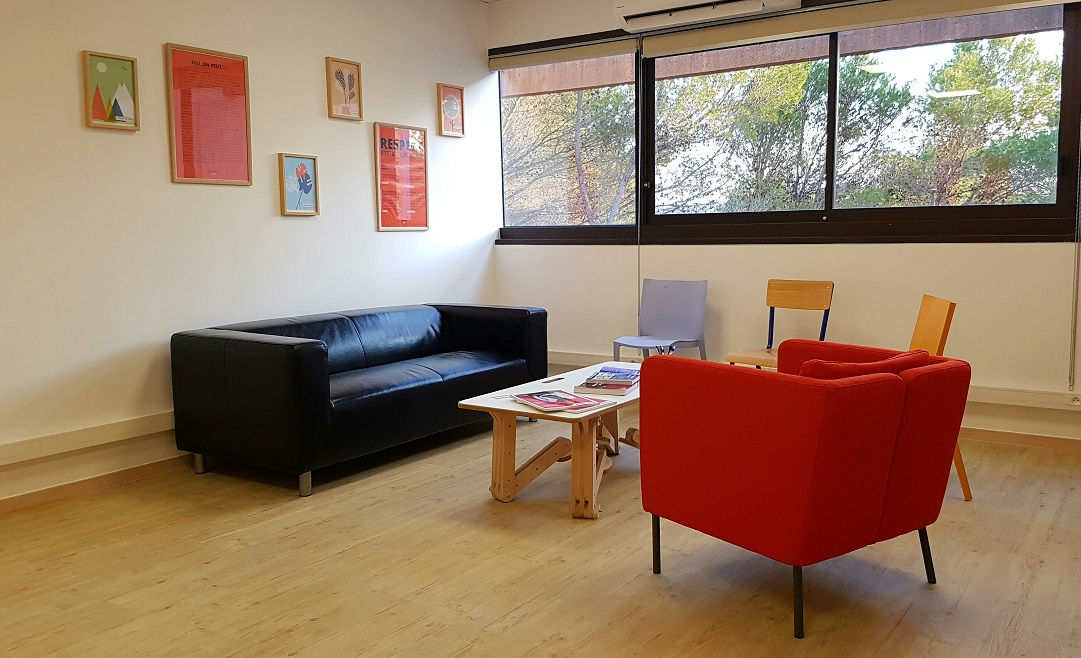
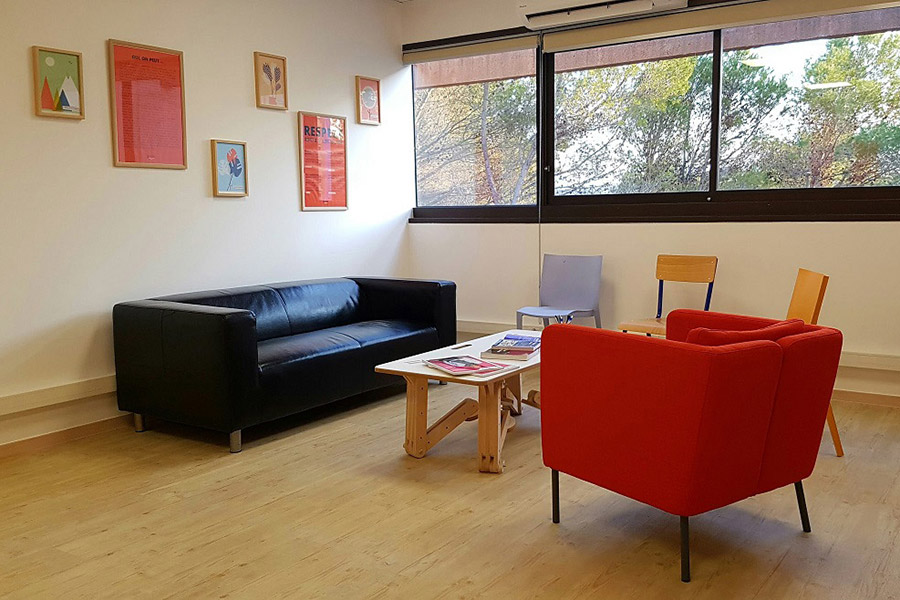
delete les photos plus utilisées Redimensionnement des photos pour homogeneisation suppression de l'image header specifique par item, une seule generique pour régler le problème de rendu en fonction de la résolution.

Changed region(s): [[0.0, 0.0, 1.0, 1.0], [0.2489, 0.99, 0.28, 1.0]]

diff --git a/layouts/toolitem.html b/layouts/toolitem.html
@@ -73,13 +73,6 @@
             </section>
            
 <script>
-DocReady();
-function DocReady(){
-var el = document.getElementById("toolitem");
-el.style.backgroundImage = "url('{{headerimage}}')";
-el.style.backgroundPositionX ="center";
-el.style.backgroundPositionY ="center";
-}
 
 var slideIndex = 1;
 showDivs(slideIndex);

diff --git a/src/css/_headers.scss b/src/css/_headers.scss
@@ -56,11 +56,11 @@
   }
 }
 
-//#toolitem {
-//  .slide__header {
-//    background-image: url('../images/toolkits/photo-kit-used.jpg');
-//  }
-//}
+#toolitem {
+  .slide__header {
+    background-image: url('../images/toolkit-header.jpg');
+  }
+}
 
 #agile {
   .slide__header {

diff --git a/src/toolkits/kitfacilitation.md b/src/toolkits/kitfacilitation.md
@@ -17,10 +17,9 @@ priceTTC: 132€,
 TauxTVA: "20%",
 buttonAchatLabel: Acheter, 
 mainimage: "/images/toolkits/kit-open.jpg",
-headerimage: "/images/toolkits/kit-open.jpg",
 image:[ 
-    {path: "/images/toolkits/kit-close.jpg", alt : "Sac de transport"},
 {path: "/images/toolkits/kit-open.jpg", alt : "Contenu du kit"},
+{path: "/images/toolkits/kit-close.jpg", alt : "Sac de transport"},
 {path: "/images/toolkits/kit-sticky.jpg", alt : "Sticky Wall"},
 {path: "/images/toolkits/kit-focus-colle.jpg", alt : "Colle repositionnable"},
 {path: "/images/toolkits/kit-focus-pen.jpg", alt : "Feutres à l'eau Neuland"},
@@ -28,7 +27,7 @@ image:[
 {path: "/images/toolkits/ampoule.jpg", alt : "Ampoule de parole"},
 {path: "/images/toolkits/kit-scotch.jpg", alt : "Rouleau de scotch"}
 ],
-2checkouturl: https://www.2checkout.com/checkout/purchase,
+2checkouturl: https://sandbox.2checkout.com/checkout/purchase,
 2checkouturl_sid: 901349646,
 2checkoutProductId: 1,
 }
@@ -38,7 +37,7 @@ Le kit comprend :
 * Un sticky wall en tissu bleu (longueur 3m ; hauteur 1,15m)
 * Une bombe de colle repositionnable à appliquer sur le tissu 
 * Un rouleau de scotch pour accrocher le kit au mur
-* Une boite de 10 feutres à l'eau, Neuland rechargeables avec 4 couleurs (noir, vert, bleu et rouge)
+* Une boite de 10 feutres à l'eau, Neuland N°1 rechargeables avec 10 couleurs
 * Un jeu de cartes de photolangage pour briser la glace à vos ateliers / réunions
 * Une ampoule de parole anti-stress
 * Un sac de transport

diff --git a/src/toolkits/sallegooodsud-demijournee.md b/src/toolkits/sallegooodsud-demijournee.md
@@ -17,7 +17,6 @@ priceTTC: 228€,
 TauxTVA: "20%",
 buttonAchatLabel: Payer ma réservation, 
 mainimage : "/images/toolkits/espace-sud-piece1-vueensemble.jpg",
-headerimage : "/images/toolkits/espace-sud-piece1-canape-header.jpg",
 image: [{path: "/images/espace-sud.jpg",alt: "Salle 1"},
 {path: "/images/toolkits/espace-sud-piece1-vueensemble.jpg",alt: "Salle 1 vue d'ensemble"},
 {path: "/images/toolkits/espace-sud-piece1-whiteboard.jpg",alt: "Salle 1 White board"},

diff --git a/src/toolkits/sallegooodsud.md b/src/toolkits/sallegooodsud.md
@@ -17,7 +17,6 @@ priceTTC: 348€,
 TauxTVA: "20%",
 buttonAchatLabel: Payer ma réservation, 
 mainimage : "/images/toolkits/espace-sud-piece1-vueensemble.jpg",
-headerimage : "/images/toolkits/espace-sud-piece1-canape-header.jpg",
 image: [{path: "/images/espace-sud.jpg",alt: "Salle 1"},
 {path: "/images/toolkits/espace-sud-piece1-vueensemble.jpg",alt: "Salle 1 vue d'ensemble"},
 {path: "/images/toolkits/espace-sud-piece1-whiteboard.jpg",alt: "Salle 1 White board"},

diff --git a/src/toolkits/sticky.md b/src/toolkits/sticky.md
@@ -17,7 +17,6 @@ pricePort: + 6€ de frais de port,
 TauxTVA: "20%",
 buttonAchatLabel: Acheter, 
 mainimage : "/images/toolkits/kit-sticky.jpg",
-headerimage : /images/toolkits/kit-sticky.jpg,
 image: [{path: "/images/toolkits/kit-sticky.jpg", alt : "Sticky Wall"},
 {path: "/images/toolkits/sticky-open.jpg", alt : "Sticky Wall déplié"},
 {path: "/images/toolkits/stickywall.gif", alt : "ça colle et ça recolle!"}],
